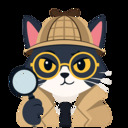
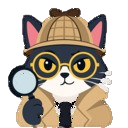
Versión 1.2: Soporte global ES/EN y sistema de afiliados

diff --git a/content.js b/content.js
@@ -6,9 +6,9 @@ function obtenerConfiguracion(host) {
       tag: 'abellan27-21', // Tu ID de España
       camelUrl: 'https://es.camelcamelcamel.com/product/',
       texts: {
-        title: 'LiaCheck™ VERIFICADOR DE HISTORIAL DE PRECIOS',
+        title: 'LiaCheck™ HISTORIAL DE PRECIOS',
         question: '¿Es este su precio más bajo?',
-        button: 'Verificar Historial Real',
+        button: 'Verificar Historial',
         disclaimer: 'AbellanLabs™ es un Afiliado Oficial de Amazon.'
       }
     };